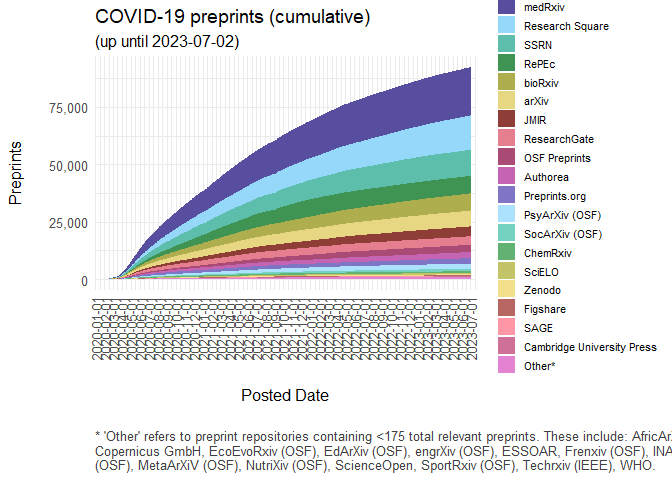
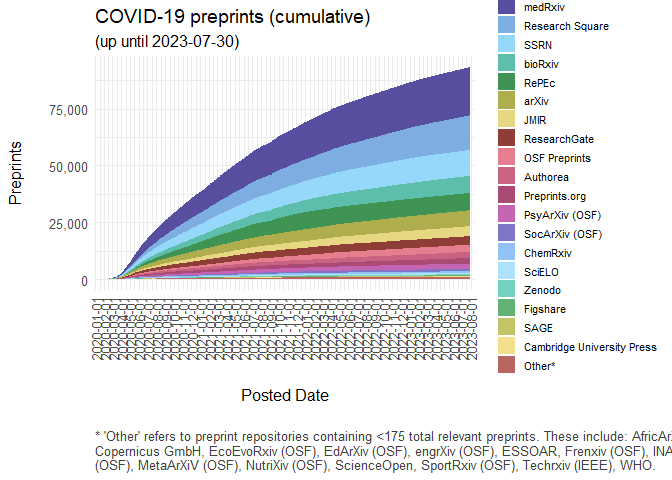
Update 2023-08-02 for preprints posted up until 2023-07-30

diff --git a/covid19_preprints.md b/covid19_preprints.md
@@ -727,8 +727,9 @@ theme_set(theme_minimal() +
                                       margin = margin(20, 0, 0, 0))))
 
 # Create a nice color palette
-pal_1 <- colorspace::lighten(pals::tol(n = 10), amount = 0.2)
-pal_2 <- colorspace::lighten(pals::tol(n = 10), amount = 0.4)
+pal_1 <- colorspace::lighten(pals::tol(n = 12), amount = 0.2)
+pal_2 <- colorspace::lighten(pals::tol(n = 12), amount = 0.4)
+
 palette <- c(pal_1, pal_2)
 ```
 
